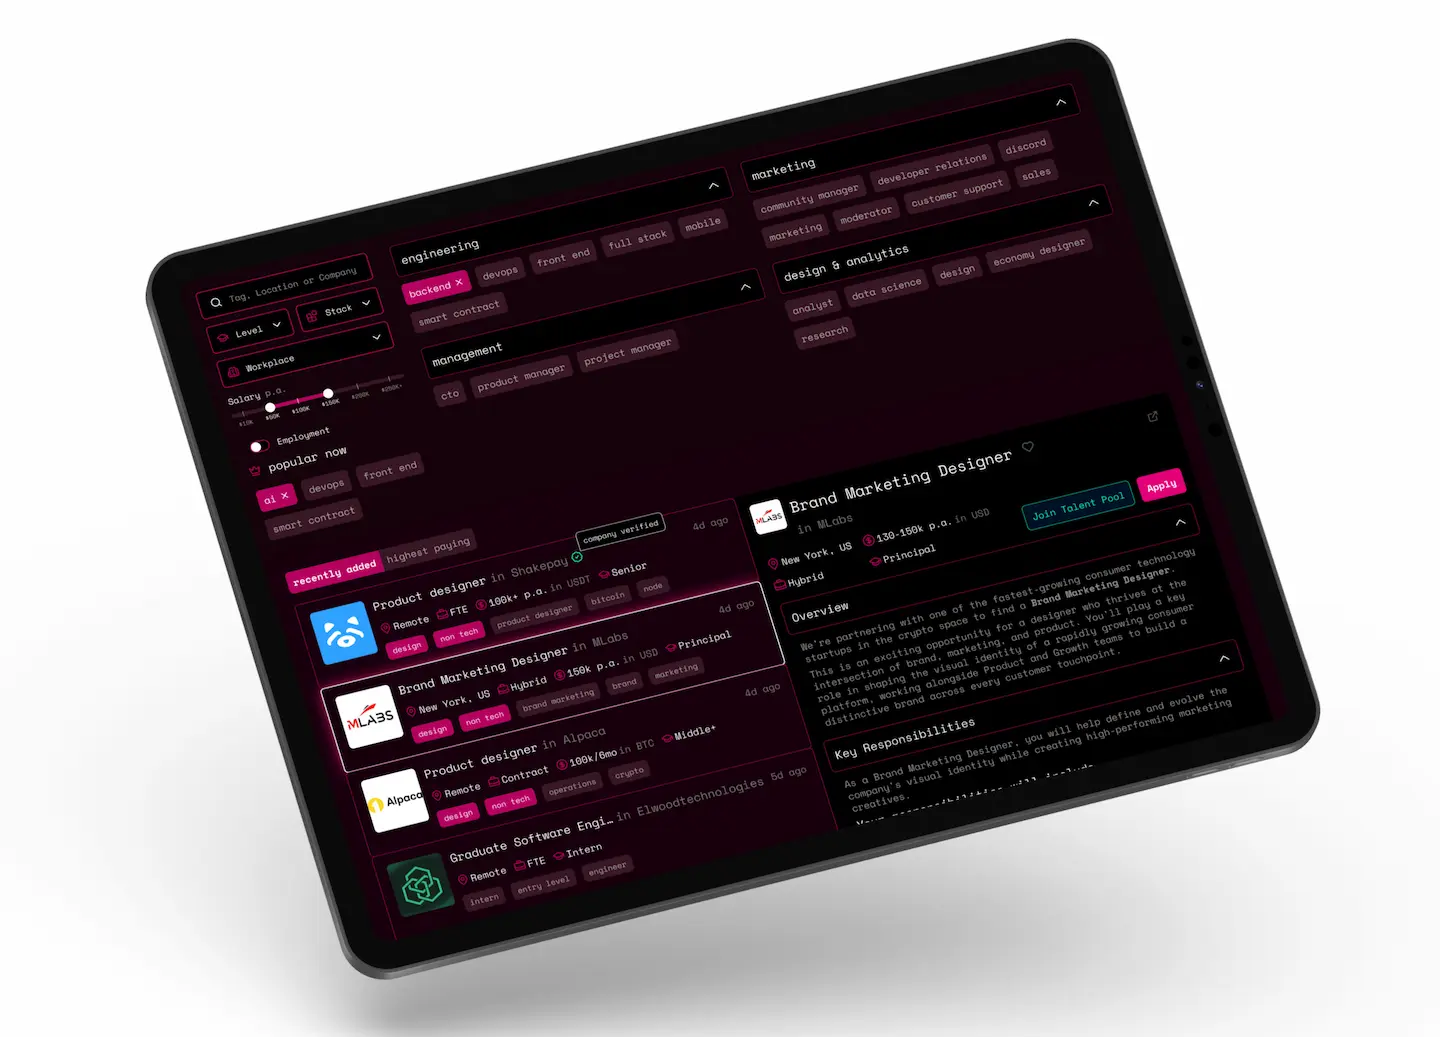
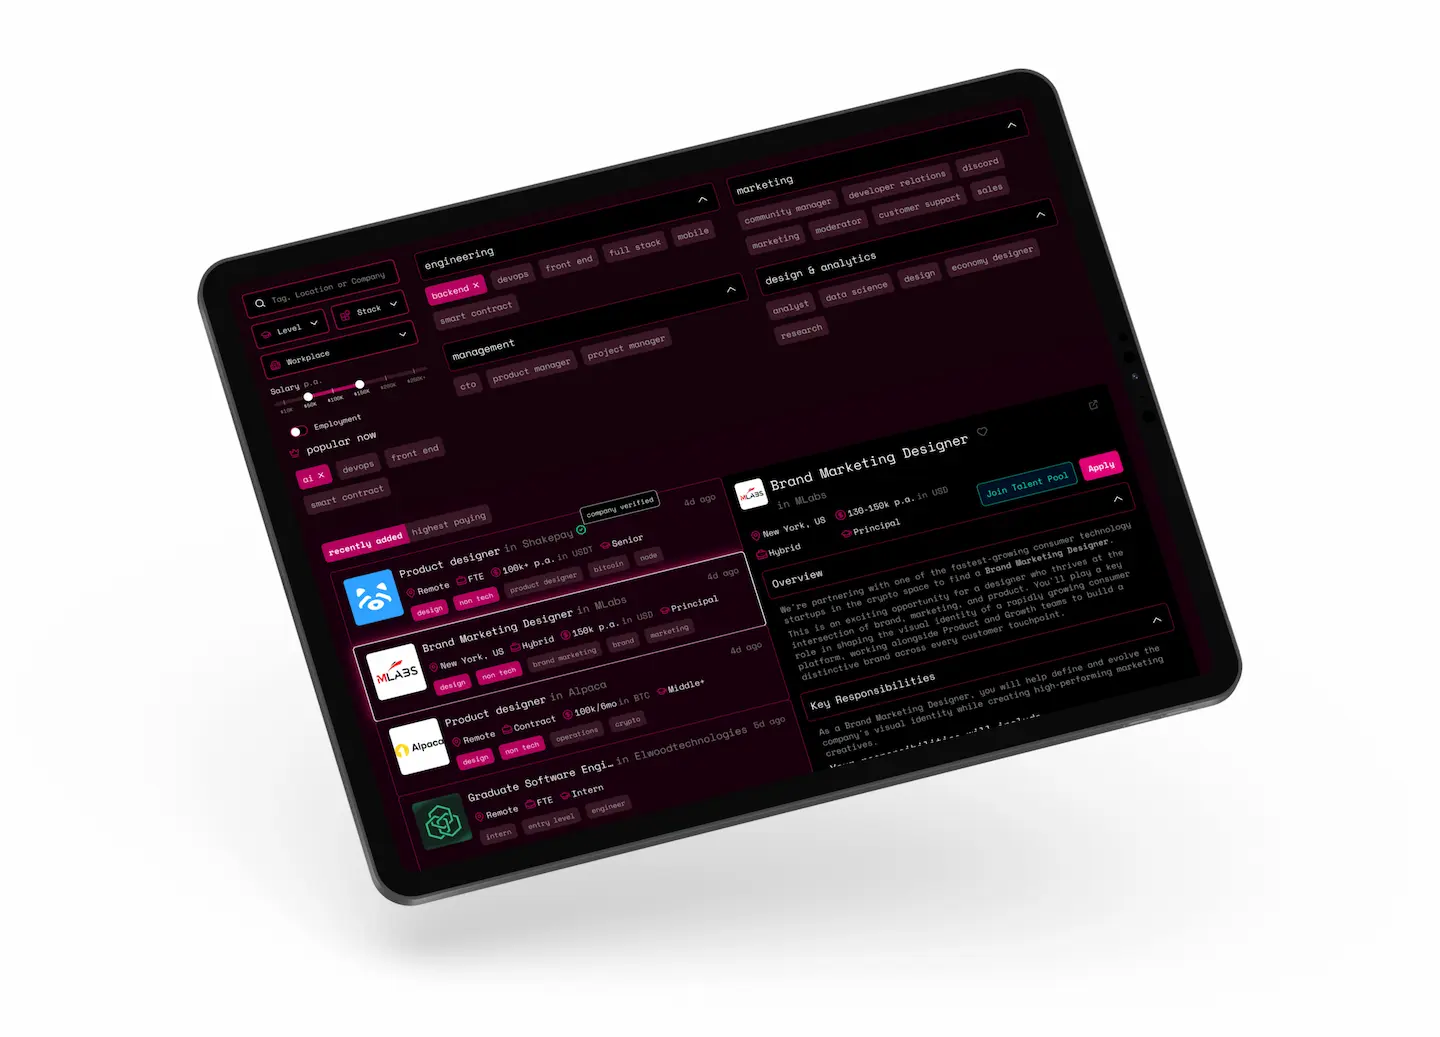
ugaugabugabuga

Changed region(s): [[0.0938, 0.0309, 0.9375, 1.0]]

diff --git a/src/app/[locale]/layout.tsx b/src/app/[locale]/layout.tsx
@@ -4,9 +4,12 @@ import "@/app/globals.css";
 import { PsychedelicCursor } from "@/components/PsychedelicCursor"; 
 import { CursorLoader } from "@/components/CursorLoader"; 
 import Script from 'next/script';
+import { notFound } from "next/navigation";
 
-// 1. Импортируем компонент перехода из React
+
 import { ViewTransition as ViewTransition } from "react";
+
+const locales = ['ru', 'en'];
 
 const unbounded = Unbounded({
   variable: "--font-unbounded",
@@ -40,6 +43,11 @@ type Props = {
 
 export default async function RootLayout({ children, params }: Props) {
   const { locale } = await params;
+
+  if (!locales.includes(locale)) {
+    notFound();
+  }
+
   const METRIKA_ID = 106115411;
 
   return (

diff --git a/src/app/[locale]/page.tsx b/src/app/[locale]/page.tsx
@@ -6,10 +6,10 @@ import ProjectGrid from "@/components/ProjectGrid";
 import Pricing from "@/components/Pricing";
 import About from "@/components/About";
 import Footer from "@/components/Footer";
-import { getProjects } from "@/data/projects";
+import { getProjects } from "@/lib/projects";
 import { getContent } from "@/data/content";
 import Blog from "@/components/Blog";
-import { getBlogPosts } from "@/data/blog";
+import { getBlogPosts } from "@/lib/blog";
 
 interface HomeProps {
   params: Promise<{
@@ -20,8 +20,8 @@ interface HomeProps {
 export default async function Home({ params }: HomeProps) {
   const { locale } = await params;
 
-  const projects = getProjects(locale);
-  const blogPosts = getBlogPosts(locale);
+  const projects = await getProjects(locale);
+  const blogPosts = await getBlogPosts(locale);
   const dict = getContent(locale);
 
   return (